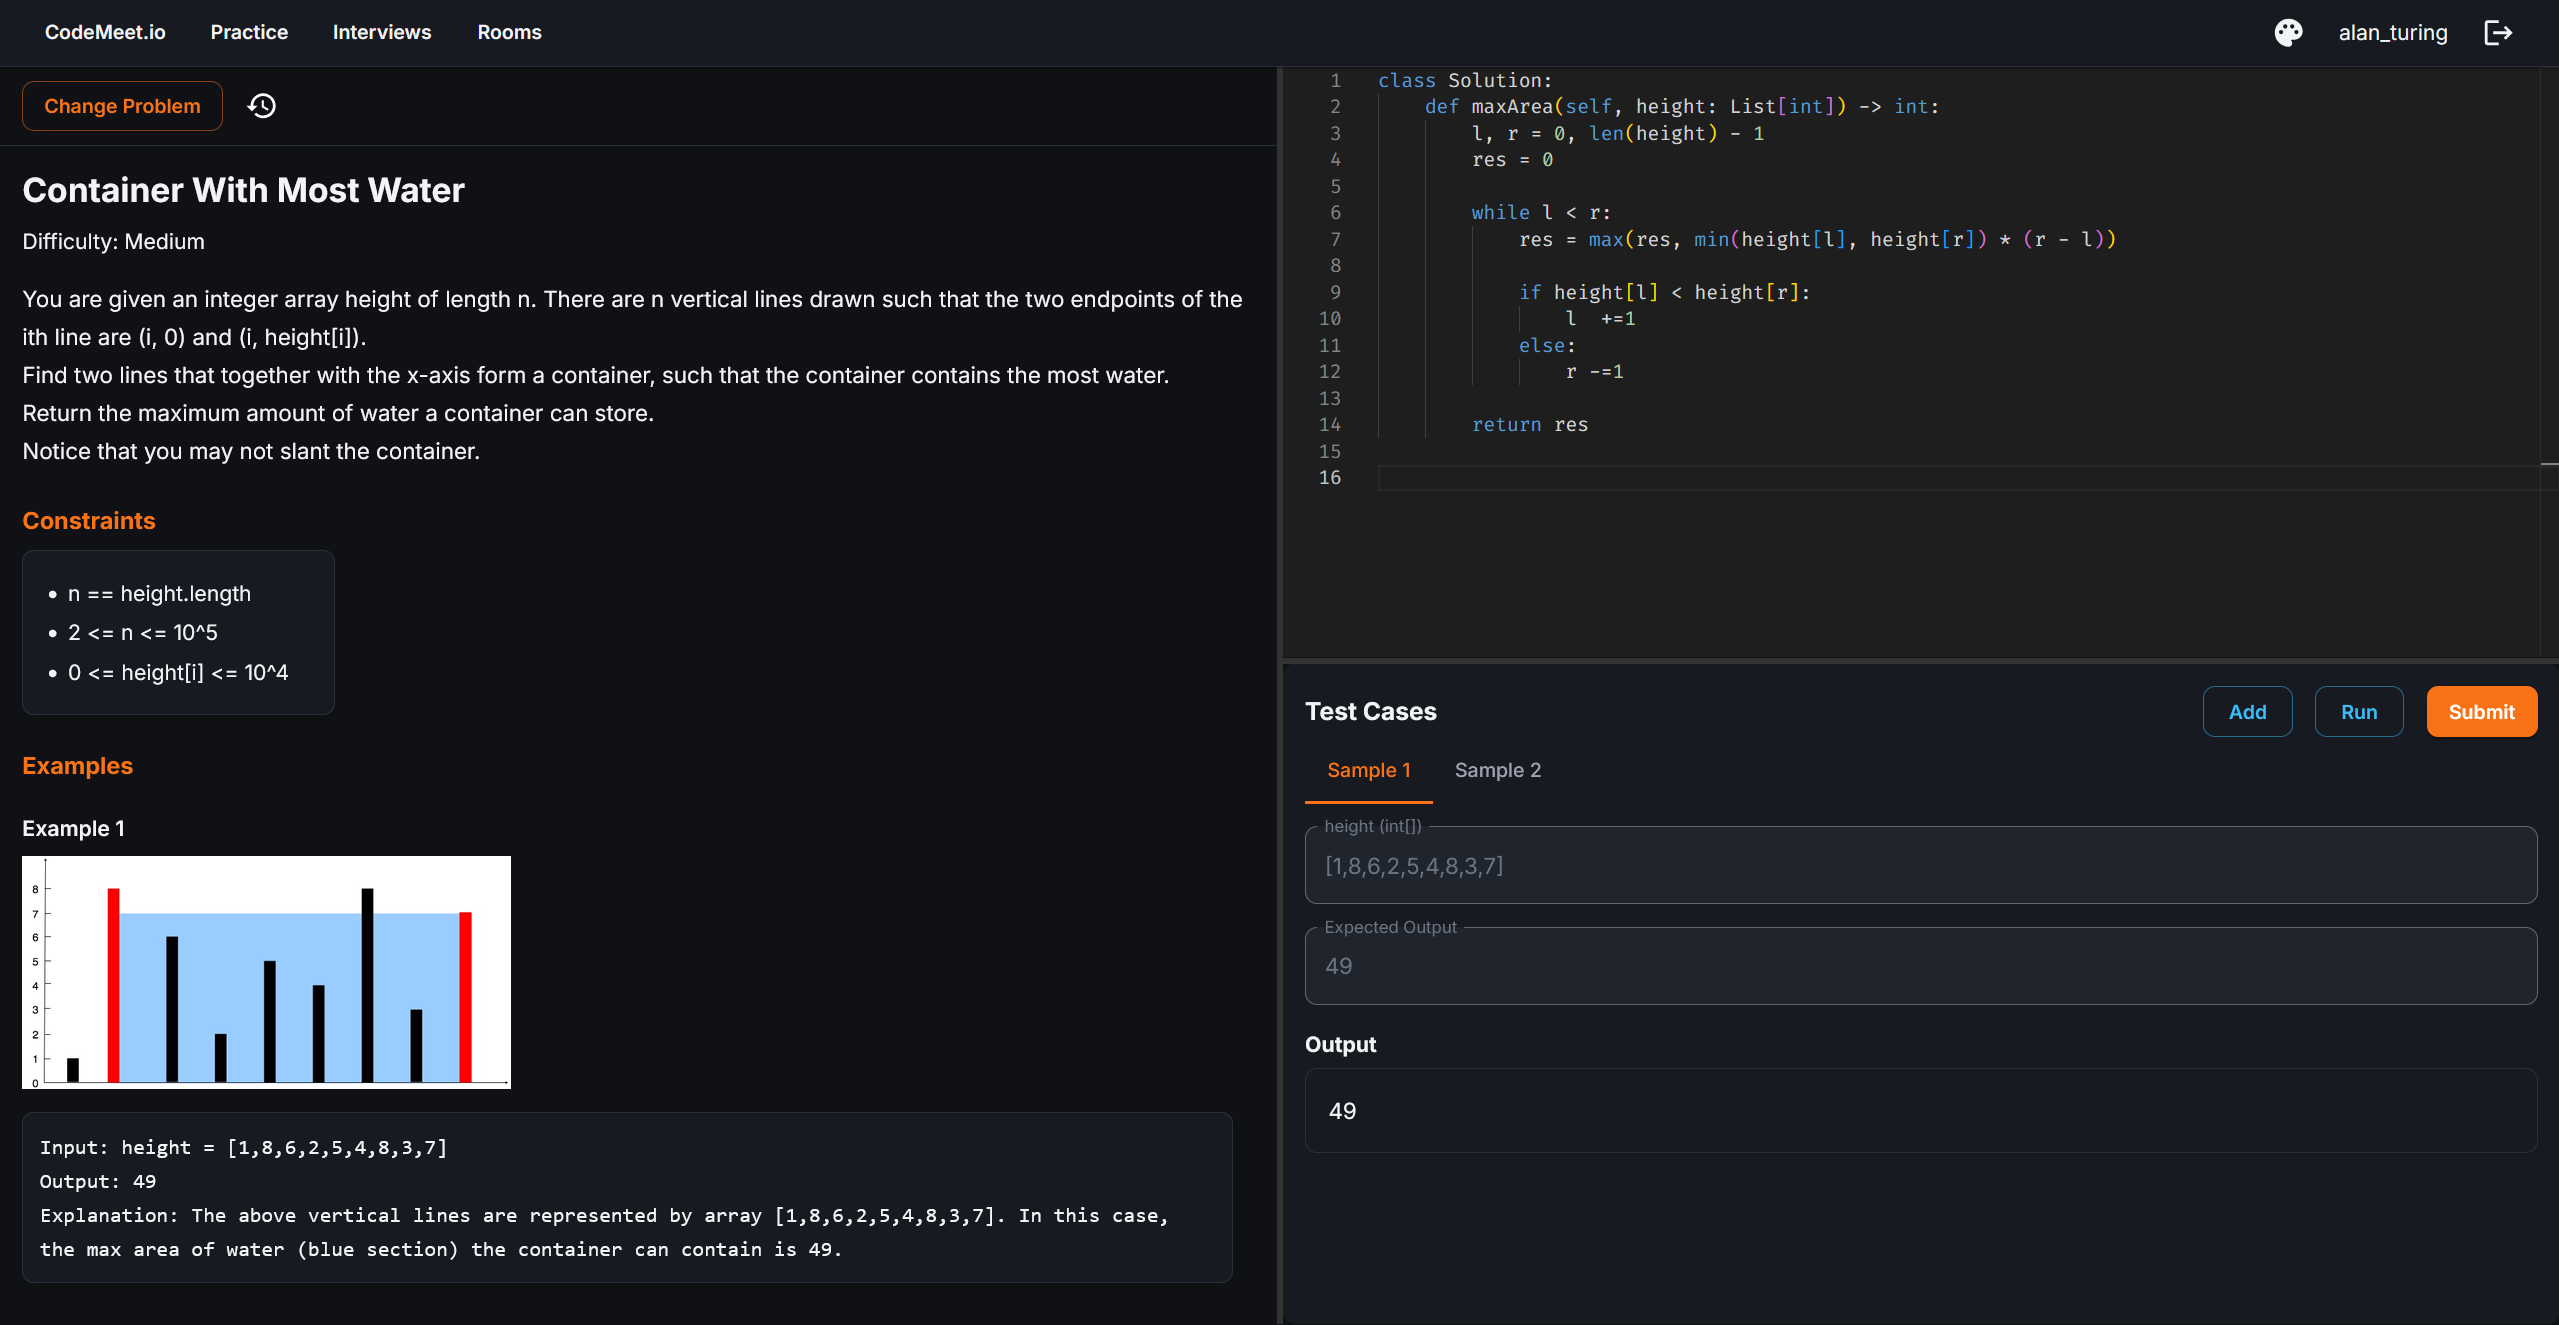
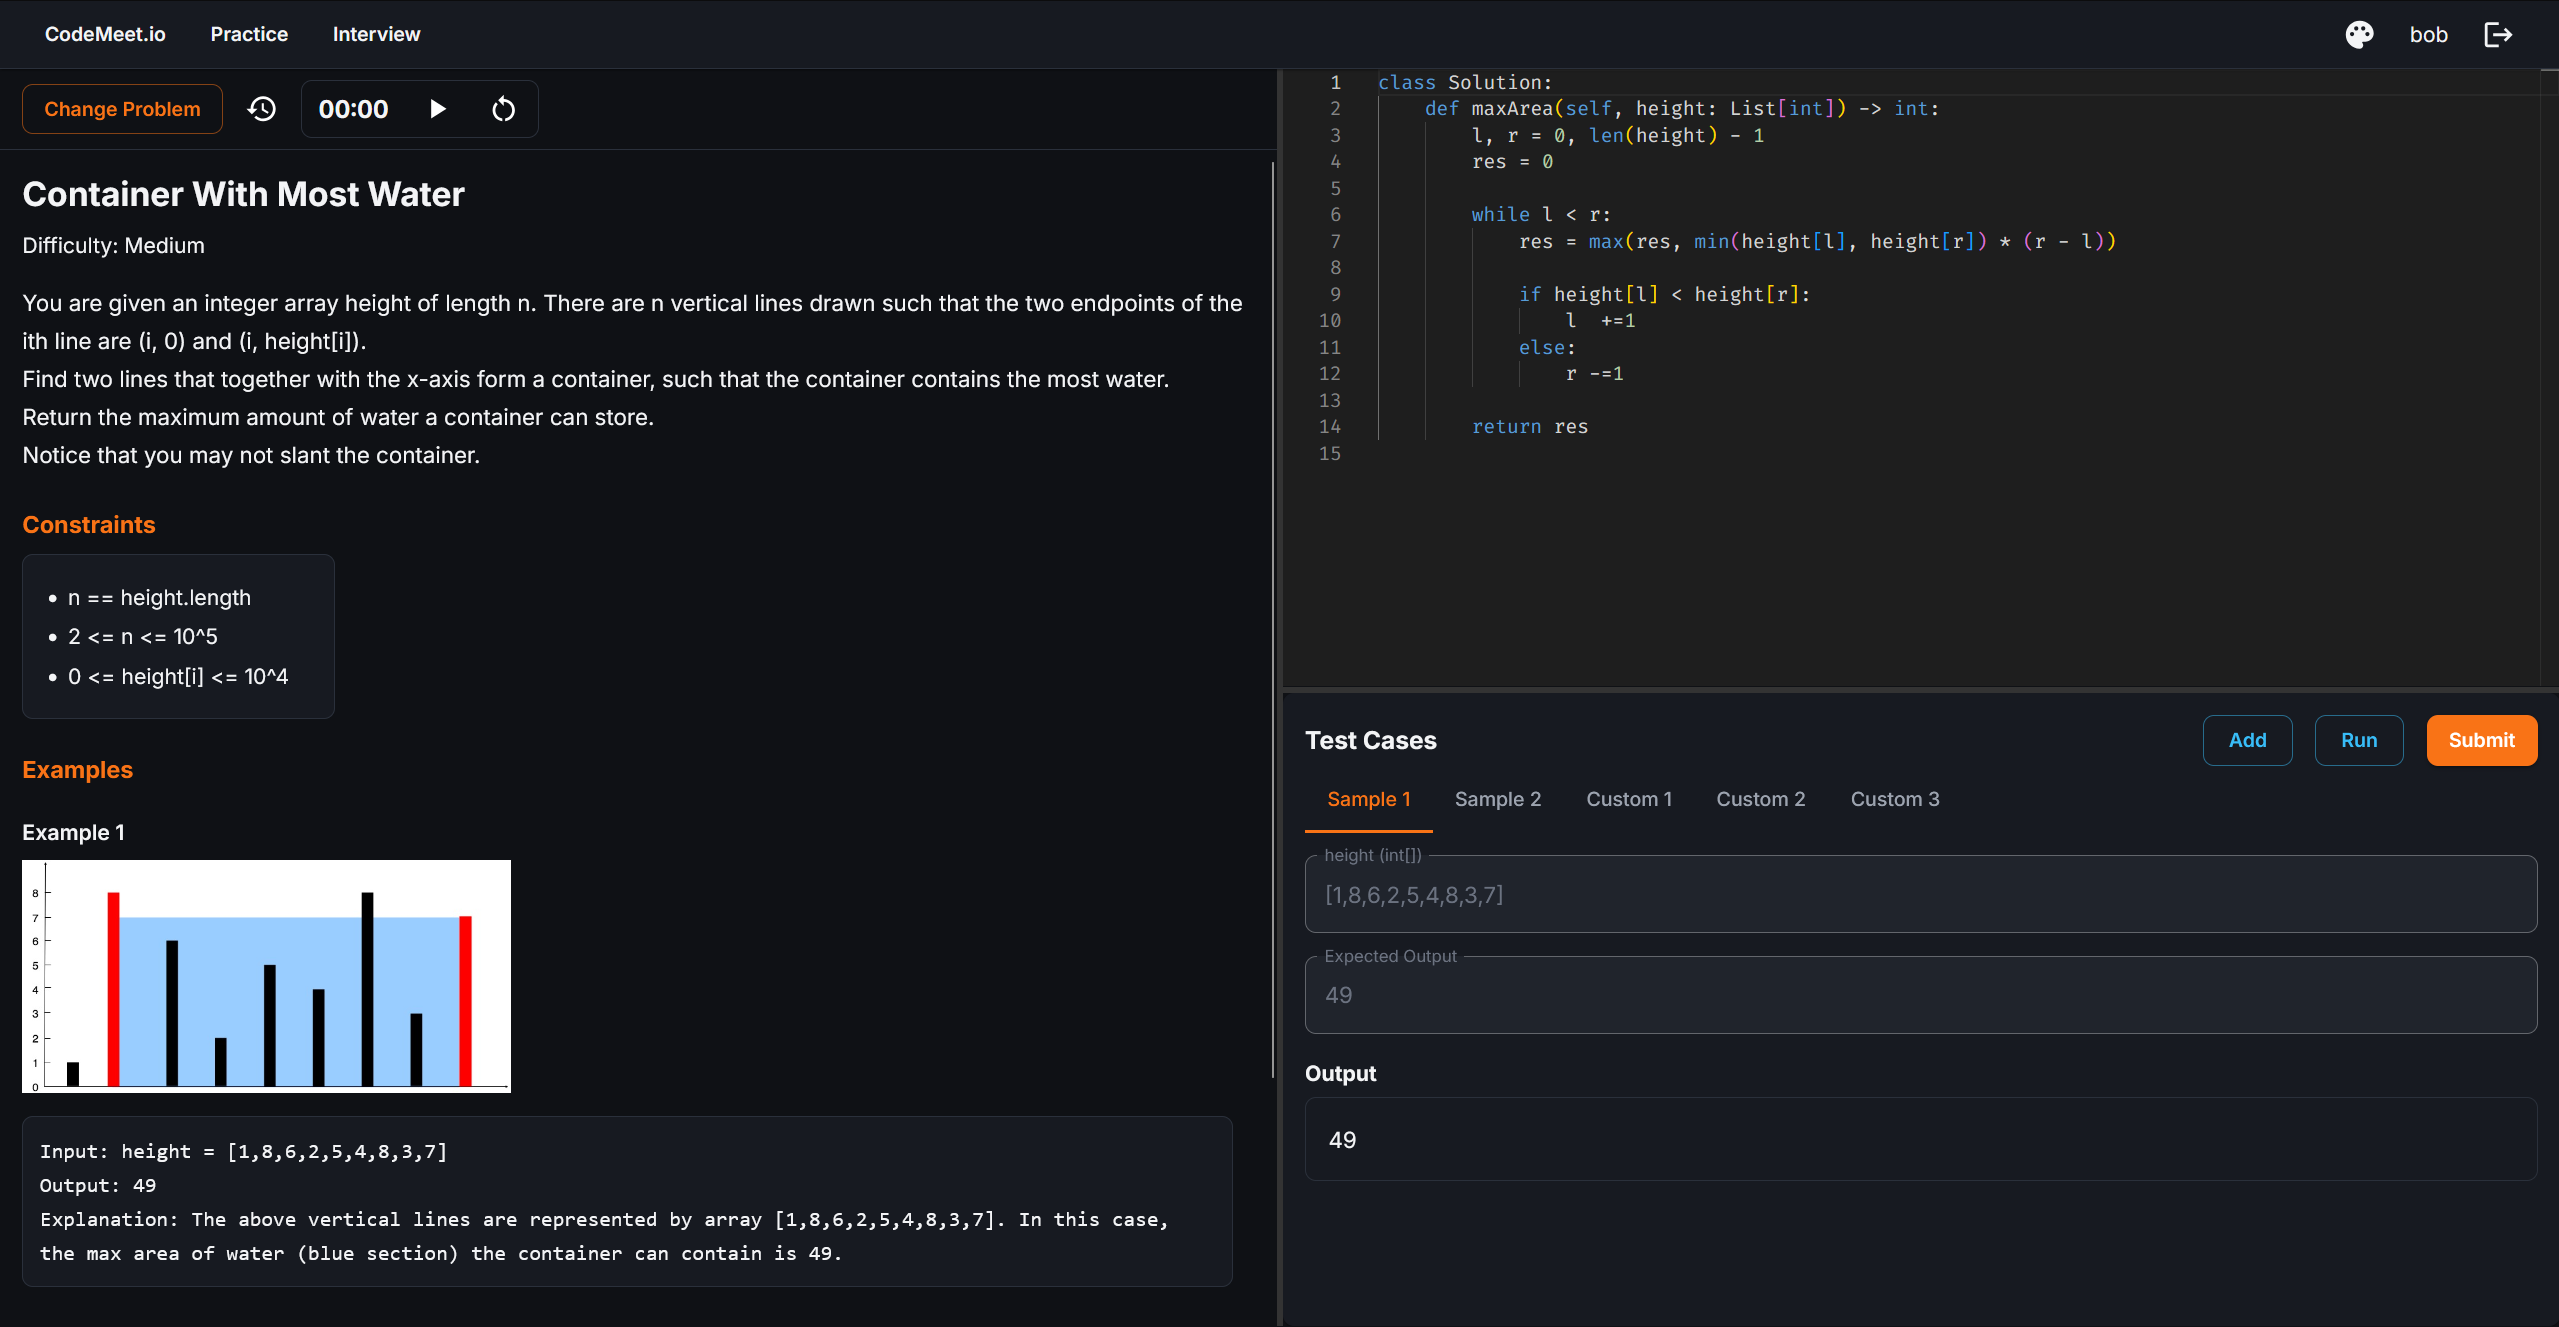
Updated homepage

diff --git a/frontend/app/page.tsx b/frontend/app/page.tsx
@@ -39,6 +39,24 @@ export default function Home() {
 
   const showcaseImages = [
     {
+      image: "/images/homepage/sample-meeting.png",
+      title: "Live Interview Sessions",
+      description:
+        "Conduct mock technical interviews with real-time video/audio, collaborative coding, and shared problem solving.",
+    },
+    {
+      image: "/images/homepage/sample-collaboration.png",
+      title: "Real-Time Collaboration",
+      description:
+        "Work together in the same code editor with synchronized code.",
+    },
+    {
+      image: "/images/homepage/sample-submission.png",
+      title: "Code Submission",
+      description:
+        "Submit your solution and receive instant feedback on its correctness.",
+    },
+    {
       image: "/images/homepage/sample-practice.png",
       title: "Practice Problems",
       description:
@@ -46,14 +64,8 @@ export default function Home() {
     },
     {
       image: "/images/homepage/sample-test-cases.png",
-      title: "Test Cases",
-      description: "Run your code against a set of custom test cases.",
-    },
-    {
-      image: "/images/homepage/sample-submission.png",
-      title: "Submission",
-      description:
-        "Submit your code and receive instant feedback on its performance.",
+      title: "Custom Test Cases",
+      description: "Run your code against your own test cases.",
     },
   ];
 
